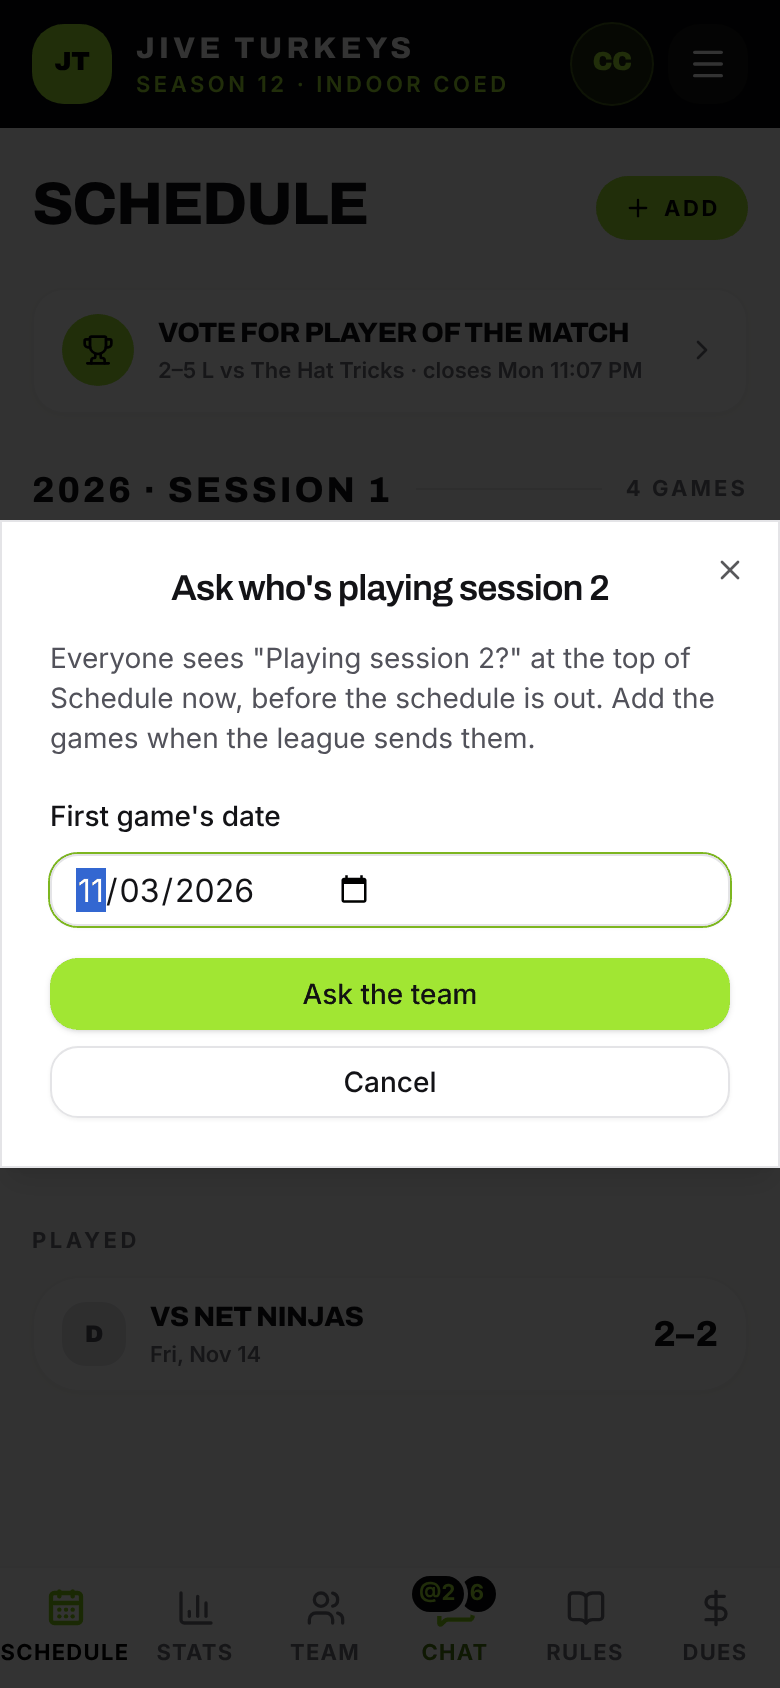
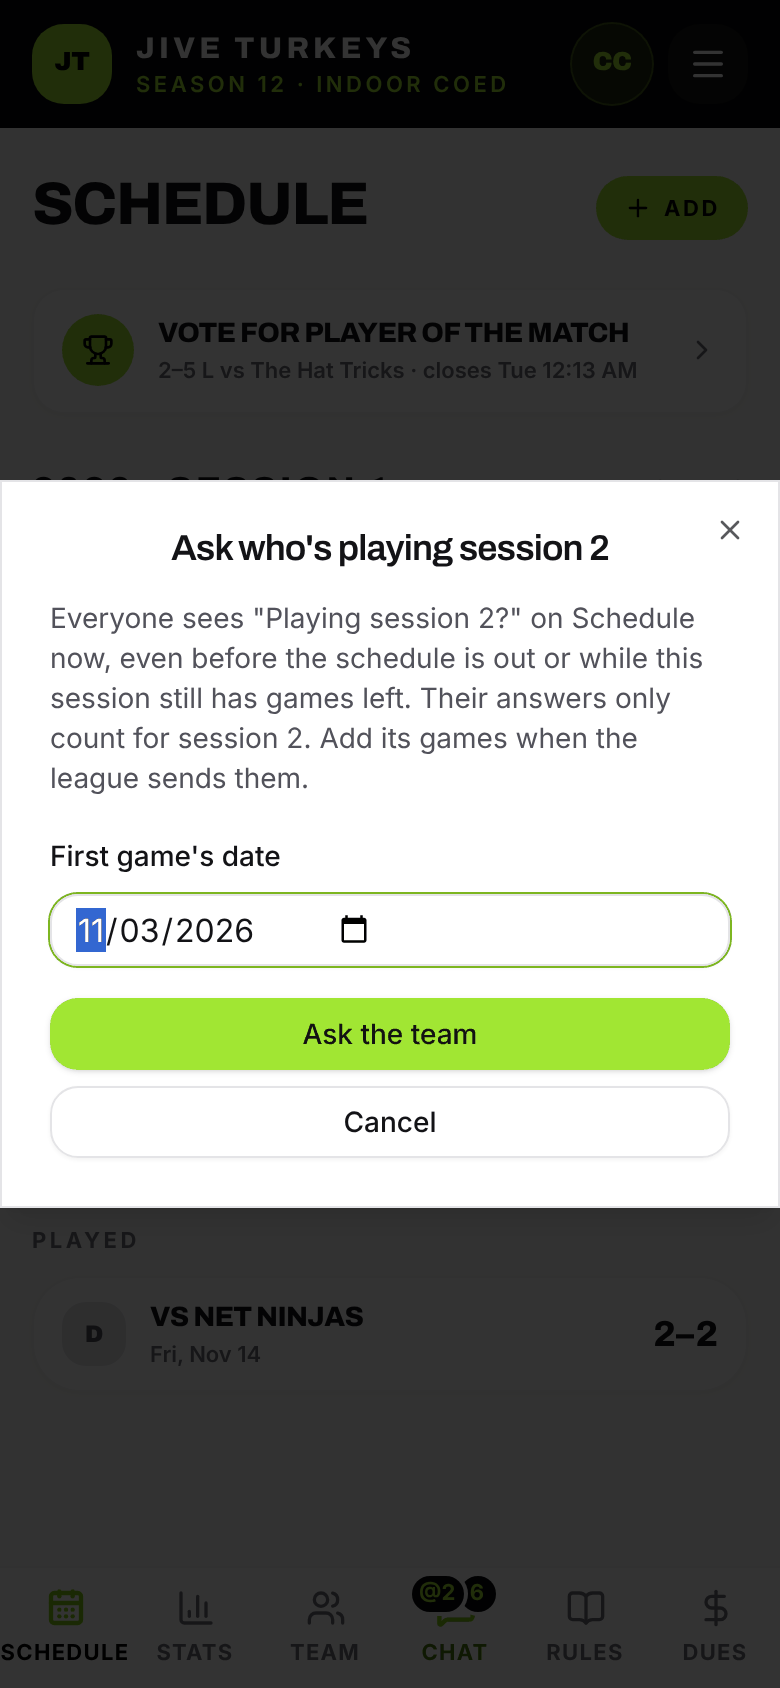
Prototype: captains ask about the next session while games are still left
Captains can ask "Playing session N?" any time, not only between sessions.
While this session still has games, the question is its own card under the
Next game card, and answers go straight into session N's list (roster.answer),
so the session still being played and players' current status don't change.
Once answered it shrinks to one line with Change.

Not for release; screenshots in docs/design/schedule-review/.

Claude-Session: https://claude.ai/code/session_012wGEntWDTt8nRAoWnWmNHG

Changed region(s): [[0.0, 0.2773, 1.0, 0.7393]]

diff --git a/src/components/SessionPrompt.jsx b/src/components/SessionPrompt.jsx
@@ -1,9 +1,10 @@
 import { useState } from 'react';
+import { CalendarCheck } from 'lucide-react';
 import { api } from '@/api';
 import { useToast } from '@/components/ui/toast';
 import { STATUS_LABEL } from '@/lib/constants';
 import { fmtDateShort, today } from '@/lib/format';
-import { entryFor, sessionGames, sessionRows, stillAsking } from '@/lib/roster';
+import { entryFor, isEarlier, sessionGames, sessionRows, stillAsking } from '@/lib/roster';
 import { cn } from '@/lib/utils';
 
 const ANSWERS = [
@@ -14,20 +15,33 @@ const ANSWERS = [
 
 /**
  * "Playing session 2?" A new session starts with everyone's status carried
- * over. It's asked from when the session becomes the current one (its first
- * game is next, or captains asked ahead with a start date) until its first game.
+ * over. It's asked of the current session until its first game (its first game
+ * is next, or captains asked ahead and its schedule isn't out), or of a later
+ * session captains asked about while this one still has games left.
  * Null when it isn't being asked of you; otherwise the session, your entry,
- * its first game (if the schedule is up), its start date and whether you answered.
+ * its first game (if the schedule is up), its start date, whether you answered,
+ * and whether it's the current session.
  */
 export function sessionAsk({ profile, roster, games, sessions = [] }) {
   if (!profile || !roster?.current) return null;
-  const period = roster.current;
+  const startsOn = (period) => sessions.find((s) => s.season_year === Number(period.year) && s.session === Number(period.session))?.starts_on;
+  const ahead = sessions
+    .filter((s) => s.starts_on && isEarlier(roster.current, { year: s.season_year, session: s.session }))
+    .sort((a, b) => a.starts_on.localeCompare(b.starts_on))
+    .map((s) => ({ year: s.season_year, session: s.session }))[0];
+  const period = [roster.current, ahead].find((p) => p && stillAsking(games, p, today(), startsOn(p)));
+  if (!period) return null;
   const entry = entryFor(roster.rows, period, profile.user_id);
-  const asked = sessions.find((s) => s.season_year === Number(period.year) && s.session === Number(period.session));
+  if (!entry || entry.status === 'off') return null;
   const first = sessionGames(games, period)[0] || null;
-  const startsOn = first?.date || asked?.starts_on || null;
-  if (!entry || entry.status === 'off' || !stillAsking(games, period, today(), asked?.starts_on)) return null;
-  return { period, entry, first, startsOn, answered: !!entry.answered_at };
+  return {
+    period,
+    entry,
+    first,
+    startsOn: first?.date || startsOn(period) || null,
+    answered: !!entry.answered_at,
+    isCurrent: period === roster.current,
+  };
 }
 
 /** The same, only while you haven't answered. */
@@ -36,7 +50,11 @@ export function sessionQuestion(args) {
   return ask && !ask.answered ? ask : null;
 }
 
-/** I'm in / Sub only / Sitting out, saved to your profile (the session's list follows it). */
+/**
+ * I'm in / Sub only / Sitting out. For the current session it's your status (the
+ * session's list follows it); for a session asked about ahead it goes in that
+ * session's list only, so the session still being played doesn't change.
+ */
 function SessionAnswers({ profile, question, onAnswered, compact = false, selected }) {
   const { toast } = useToast();
   const [busy, setBusy] = useState(false);
@@ -45,7 +63,8 @@ function SessionAnswers({ profile, question, onAnswered, compact = false, select
   const answer = async (choice) => {
     setBusy(true);
     try {
-      await api.entities.PlayerProfile.update(profile.id, { status: choice.status });
+      if (question.isCurrent) await api.entities.PlayerProfile.update(profile.id, { status: choice.status });
+      else await api.roster.answer({ year: period.year, session: period.session, status: choice.status });
       toast({ title: choice.done(period.session) });
       await onAnswered();
     } catch (err) {
@@ -156,6 +175,71 @@ export function NextSessionCard({ ask, profile, rows, players, onAnswered }) {
           selected={answered ? entry.status : undefined}
         />
       </div>
+    </section>
+  );
+}
+
+const ANSWER_LABEL = Object.fromEntries(ANSWERS.map((a) => [a.status, a.label]));
+
+/**
+ * Asked ahead, while the current session still has games: under the Next game
+ * card. Once you've answered it shrinks to one line you can open to change.
+ */
+export function SessionAheadCard({ ask, profile, rows, players, onAnswered }) {
+  const [open, setOpen] = useState(false);
+  const { period, entry, startsOn, answered } = ask;
+  const tally = sessionTally(rows, period, players);
+  const when = startsOn ? `Starts ${fmtDateShort(startsOn)}` : 'Start date to come';
+
+  if (answered && !open) {
+    return (
+      <section
+        aria-label={`Session ${period.session}`}
+        data-testid="session-prompt"
+        className="flex items-center gap-3 rounded-2xl border border-black/5 bg-white px-3.5 py-3 shadow-[0_1px_2px_rgba(0,0,0,0.04)]"
+      >
+        <span className="grid h-9 w-9 shrink-0 place-items-center rounded-full bg-lime-400 text-black">
+          <CalendarCheck className="h-4 w-4" />
+        </span>
+        <span className="min-w-0 flex-1">
+          <span className="block truncate font-display text-sm font-extrabold uppercase tracking-tight">
+            Session {period.session}: {ANSWER_LABEL[entry.status]}
+          </span>
+          <span className="block truncate text-[11px] font-semibold text-zinc-500">
+            {when} · {tally.in} in so far
+          </span>
+        </span>
+        <button
+          type="button"
+          onClick={() => setOpen(true)}
+          className="shrink-0 rounded-full bg-zinc-100 px-3 py-1.5 text-[11px] font-black uppercase tracking-[0.1em] text-zinc-700 transition hover:bg-zinc-200"
+        >
+          Change
+        </button>
+      </section>
+    );
+  }
+
+  return (
+    <section className="rounded-3xl border-2 border-lime-400 bg-white p-4" aria-label={`Session ${period.session}`} data-testid="session-prompt">
+      <span className="text-[11px] font-black uppercase tracking-[0.16em] text-lime-700">Asking ahead</span>
+      <h2 className="mt-1 font-display text-xl font-extrabold uppercase tracking-tight">Playing session {period.session}?</h2>
+      <p className="mt-0.5 text-xs font-bold text-zinc-700">
+        {when} · {tally.in} in so far
+      </p>
+      <p className="mb-3 mt-1 text-xs font-medium text-zinc-600">
+        Your answer only counts for session {period.session}. Active players split the dues; sitting out still gets sub
+        call-ups.
+      </p>
+      <SessionAnswers
+        profile={profile}
+        question={ask}
+        selected={answered ? entry.status : undefined}
+        onAnswered={async () => {
+          setOpen(false);
+          await onAnswered();
+        }}
+      />
     </section>
   );
 }

diff --git a/src/pages/SchedulePage.jsx b/src/pages/SchedulePage.jsx
@@ -6,7 +6,7 @@ import { PageHeader, PageSpinner } from '@/components/PageSpinner';
 import { PotmPrompt } from '@/components/PotmPrompt';
 import { InstallCard, useInstall } from '@/components/InstallApp';
 import { NotificationsPrompt, showInstallGuide, usePush } from '@/components/chat/Notifications';
-import { NextSessionCard, SessionPrompt, SessionQuestionPanel, sessionAsk, sessionQuestion } from '@/components/SessionPrompt';
+import { NextSessionCard, SessionAheadCard, SessionPrompt, SessionQuestionPanel, sessionAsk } from '@/components/SessionPrompt';
 import { GameCard, LaterGameCard, PlayedList } from '@/components/schedule/GameCard';
 import { AnswerButtons, answerLabel } from '@/components/game/AnswerButtons';
 import { NextGameCard } from '@/components/schedule/NextGame';
@@ -21,7 +21,7 @@ import { useSeasonData } from '@/hooks/useSeasonData';
 import { stepSession } from '@/lib/dues';
 import { saveFailedToast } from '@/lib/errors';
 import { seasonLabel, today } from '@/lib/format';
-import { membersForSession } from '@/lib/roster';
+import { isEarlier, membersForSession } from '@/lib/roster';
 import { headcount, isRosterStatus, suspendedIds } from '@/lib/team-logic';
 
 /** Captains only: one small button for adding games, so the top of Schedule stays for everyone's next game. */
@@ -76,8 +76,7 @@ function AskSessionDialog({ open, onOpenChange, period, existing, onSaved }) {
   const save = async () => {
     setBusy(true);
     try {
-      if (existing) await api.entities.SessionDues.update(existing.id, { starts_on: date });
-      else await api.entities.SessionDues.create({ season_year: period.year, session: period.session, starts_on: date });
+      await api.roster.ask({ year: period.year, session: period.session, startsOn: date });
       onOpenChange(false);
       await onSaved();
       toast({ title: `Asking who's playing session ${period.session}` });
@@ -95,8 +94,9 @@ function AskSessionDialog({ open, onOpenChange, period, existing, onSaved }) {
           <DialogTitle>Ask who's playing session {period.session}</DialogTitle>
         </DialogHeader>
         <p className="text-sm text-zinc-600">
-          Everyone sees "Playing session {period.session}?" at the top of Schedule now, before the schedule is out. Add
-          the games when the league sends them.
+          Everyone sees "Playing session {period.session}?" on Schedule now, even before the schedule is out or while
+          this session still has games left. Their answers only count for session {period.session}. Add its games when
+          the league sends them.
         </p>
         <div className="space-y-2">
           <Label htmlFor="session-starts">First game's date</Label>
@@ -173,13 +173,19 @@ export function SchedulePage() {
   const onRoster = isRosterStatus(data.profile);
   // "Playing session N?" goes inside the Next game card when that game starts the session.
   const askArgs = { profile: data.profile, roster: data.roster, games: data.games, sessions: sessionInfo };
-  const question = sessionQuestion(askArgs);
+  const ask = sessionAsk(askArgs);
+  const question = ask && !ask.answered ? ask : null;
   const questionInCard = !!question && !!nextGame && question.first?.id === nextGame.id;
+  // Asked ahead while this session still has games: its own card under the Next game card.
+  const askedAhead =
+    !!ask && !!nextGame && isEarlier({ year: nextGame.season_year, session: nextGame.session }, ask.period) ? ask : null;
   // Between sessions (no game coming up), the next session's question is the top card.
-  const nextSession = !nextGame ? sessionAsk(askArgs) : null;
+  const nextSession = !nextGame ? ask : null;
   // Captains can ask about the session after the latest one before its schedule is out.
-  const askNext = !nextGame && !nextSession && sessions[0] ? stepSession({ year: sessions[0].year, session: sessions[0].session }, 1) : null;
-  const askNextRow = askNext && sessionInfo.find((r) => r.season_year === askNext.year && r.session === askNext.session);
+  // Captains can ask about the session after the latest one on the schedule, any time: between sessions or with games left.
+  const following = sessions[0] && stepSession({ year: sessions[0].year, session: sessions[0].session }, 1);
+  const askNextRow = following && sessionInfo.find((r) => r.season_year === following.year && r.session === following.session);
+  const askNext = following && !askNextRow?.starts_on ? following : null;
 
   const sessionBlock = (s) => {
     // The next game is the card at the top; the list carries on from the game after it.
@@ -283,8 +289,17 @@ export function SchedulePage() {
           onAnswered={data.reload}
         />
       )}
+      {askedAhead && (
+        <SessionAheadCard
+          ask={askedAhead}
+          profile={data.profile}
+          rows={data.roster.rows}
+          players={data.players || []}
+          onAnswered={data.reload}
+        />
+      )}
       <PotmPrompt data={data} />
-      {!questionInCard && !nextSession && (
+      {question && !questionInCard && !nextSession && !askedAhead && (
         <SessionPrompt profile={data.profile} roster={data.roster} games={data.games} sessions={sessionInfo} onAnswered={data.reload} />
       )}
       <InstallCard onShowHow={showInstallGuide} />

diff --git a/src/api/demo.js b/src/api/demo.js
@@ -598,7 +598,10 @@ export function createDemoBackend({ autoSignIn = false } = {}) {
     const period = current();
     startSession(period);
     const who = table === 'player_profiles' ? { user_id: record.user_id } : { guest_id: record.id };
-    const status = record.removed ? 'off' : record.status;
+    setEntry(period, who, record.removed ? 'off' : record.status);
+  };
+  // One player's (or roster name's) entry in a session's list, set as their answer.
+  const setEntry = (period, who, status) => {
     const mine = (r) =>
       sessionOf(r) === `${period.year}-${period.session}` && (who.user_id ? r.user_id === who.user_id : r.guest_id === who.guest_id);
     const patch = { status, answered_at: now(), changed_by: currentUser()?.id ?? null, updated_date: now() };
@@ -1360,6 +1363,32 @@ export function createDemoBackend({ autoSignIn = false } = {}) {
       startSession(period);
       save(db);
       return delay({ season_year: Number(period.year), session: Number(period.session) });
+    },
+    // Prototype: same as a roster_ask() the database would need. Captains ask
+    // "Playing session N?" before its schedule is out: its start date, and its list starts.
+    async ask({ year, session, startsOn }) {
+      requireUser();
+      failIfOffline();
+      if (currentUser().role !== 'admin') throw new Error('Only captains can do that.');
+      const row = db.session_dues.find((r) => r.season_year === Number(year) && r.session === Number(session));
+      if (row) Object.assign(row, { starts_on: startsOn, updated_date: now() });
+      else db.session_dues.push({ id: uid(), season_year: Number(year), session: Number(session), total_fee: 0, starts_on: startsOn, created_date: now(), updated_date: now() });
+      startSession({ year, session });
+      save(db);
+      return delay(null);
+    },
+    // Prototype: same as a roster_answer() the database would need. Your answer to
+    // "Playing session N?" goes in that session's list, and only there, so asking
+    // ahead never changes the session still being played.
+    async answer({ year, session, status }) {
+      requireUser();
+      failIfOffline();
+      const first = db.games.filter((g) => g.season_year === Number(year) && g.session === Number(session)).sort((a, b) => a.date.localeCompare(b.date))[0];
+      if (first && first.date < today()) throw new Error('That session has started.');
+      startSession({ year, session });
+      setEntry({ year, session }, { user_id: currentUser().id }, status);
+      save(db);
+      return delay(null);
     },
   };
 

diff --git a/src/api/supabase.js b/src/api/supabase.js
@@ -359,6 +359,15 @@ export function createSupabaseBackend(url, key) {
       if (error) fail(error);
       return data;
     },
+    // Prototype: these database functions don't exist yet (see the Schedule review issue).
+    async ask({ year, session, startsOn }) {
+      const { error } = await supabase.rpc('roster_ask', { p_year: year, p_session: session, p_starts_on: startsOn });
+      if (error) fail(error);
+    },
+    async answer({ year, session, status }) {
+      const { error } = await supabase.rpc('roster_answer', { p_year: year, p_session: session, p_status: status });
+      if (error) fail(error);
+    },
   };
 
   const notifyChat = async (action) => {
